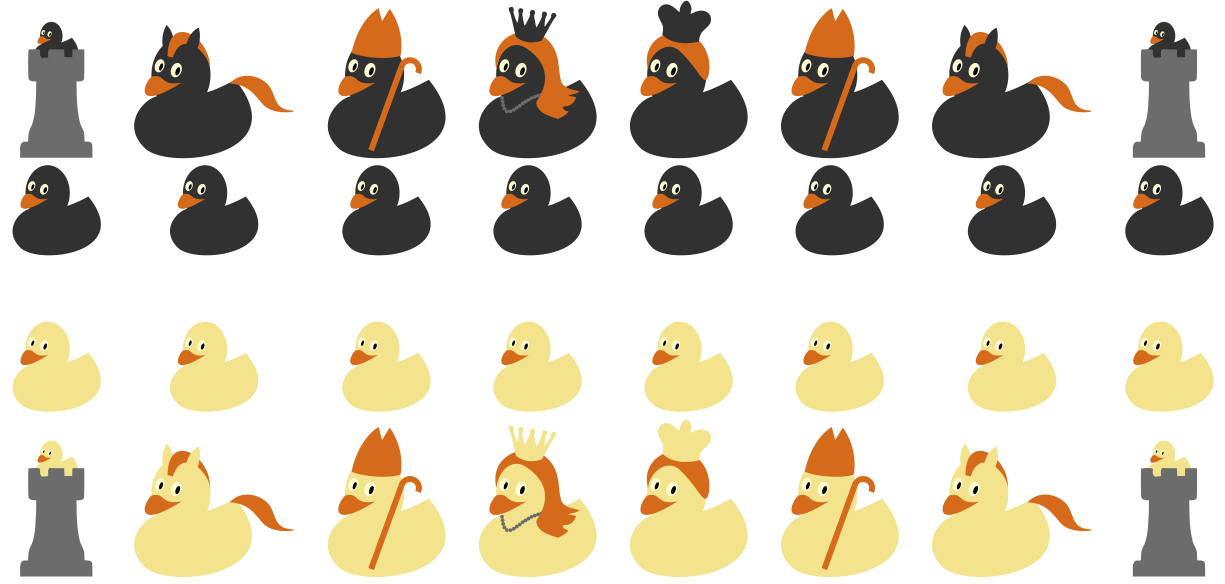
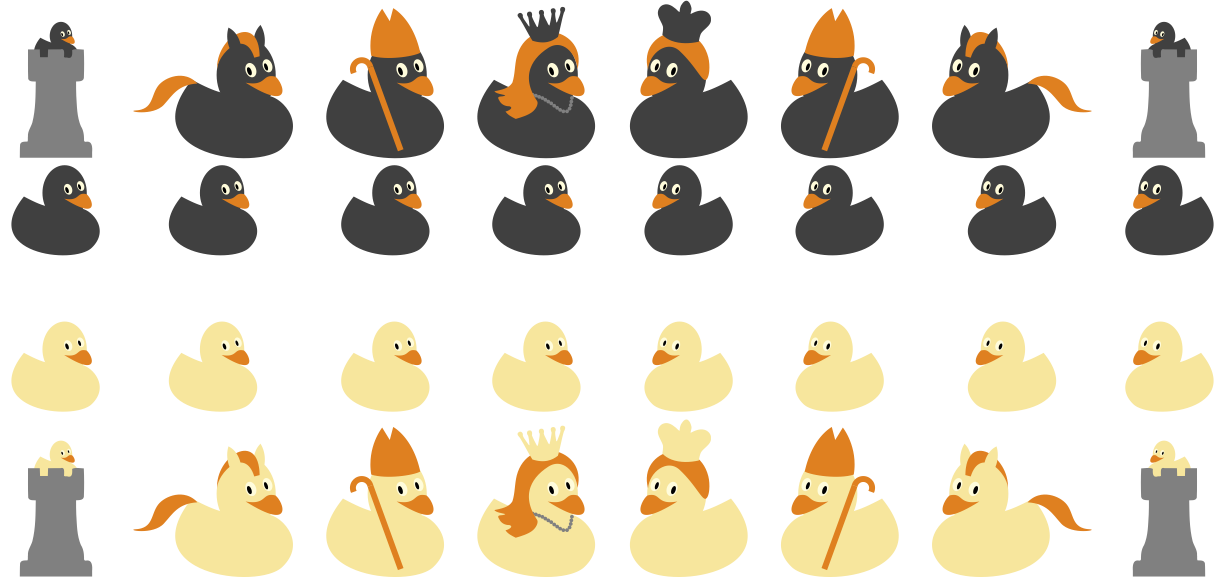
update direction of chessducks

diff --git a/duckpond/Chess.tex b/duckpond/Chess.tex
@@ -12,9 +12,9 @@
 %\cutlinestrue
 
 % Bauer %%%%%%%%%%%%%%%%%%%%%%%%%%%%%%%%%%%%%%%%%%%%%%%%%%%%%%%%%%%%%%
-\newcommand{\bauer}[1]{%
-	\begin{tikzpicture}[scale=0.75]
-		\duck[body=#1,bill=accent]
+\newcommand{\bauer}[2][]{%
+	\begin{tikzpicture}[#1,scale=0.75]
+		\duck[body=#2,bill=accent]
 		\ifcutlines
 			\draw[cutline] (1.,0.1) -- (1.,0.5);
 		\fi
@@ -22,10 +22,10 @@
 }
 
 % Turm %%%%%%%%%%%%%%%%%%%%%%%%%%%%%%%%%%%%%%%%%%%%%%%%%%%%%%%%%%%%%%%
-\newcommand{\turm}[1]{%
-	\begin{tikzpicture}
+\newcommand{\turm}[2][]{%
+	\begin{tikzpicture}[#1]
 		\begin{scope}[scale=0.38]
-			\duck[body=#1,bill=accent]
+			\duck[body=#2,bill=accent]
 		\end{scope}
 		\path[fill=gray,yshift=-45,xshift=-8] (0.0959,0.1866) .. controls (0.0908,0.2574) and (0.0900,0.3748) .. (0.1928,0.3609) .. controls (0.2295,0.3527) and (0.2359,0.3750) .. (0.2326,0.4070) .. controls (0.2337,0.4816) and (0.2438,0.5571) .. (0.2849,0.6214) .. controls (0.3553,0.7835) and (0.3522,0.9650) .. (0.3641,1.1382) .. controls (0.3678,1.2187) and (0.3676,1.2993) .. (0.3675,1.3799) .. controls (0.3183,1.3832) and (0.2443,1.3768) .. (0.2356,1.4412) .. controls (0.2297,1.6004) and (0.2294,1.7604) .. (0.2367,1.9196) .. controls (0.2988,1.9217) and (0.3843,1.9393) .. (0.4339,1.9106) .. controls (0.4300,1.8436) and (0.4255,1.7539) .. (0.5208,1.7857) .. controls (0.5477,1.7857) and (0.5820,1.7785) .. (0.5698,1.8176) .. controls (0.5717,1.8659) and (0.5553,1.9453) .. (0.6308,1.9238) .. controls (0.7009,1.9243) and (0.7710,1.9230) .. (0.8411,1.9226) .. controls (0.8425,1.8787) and (0.8439,1.8348) .. (0.8453,1.7909) .. controls (0.8892,1.7909) and (0.9331,1.7909) .. (0.9770,1.7909) .. controls (0.9784,1.8348) and (0.9798,1.8787) .. (0.9812,1.9226) .. controls (1.0478,1.9226) and (1.1143,1.9226) .. (1.1809,1.9226) .. controls (1.1794,1.7563) and (1.1845,1.5897) .. (1.1771,1.4236) .. controls (1.1574,1.3706) and (1.0943,1.3835) .. (1.0492,1.3790) .. controls (1.0532,1.1475) and (1.0506,0.9124) .. (1.1071,0.6864) .. controls (1.1310,0.6073) and (1.1880,0.5375) .. (1.1819,0.4508) .. controls (1.1864,0.4236) and (1.1780,0.3839) .. (1.1895,0.3637) .. controls (1.2346,0.3602) and (1.3001,0.3702) .. (1.3145,0.3141) .. controls (1.3197,0.2396) and (1.3177,0.1647) .. (1.3193,0.0900) .. controls (0.9114,0.0900) and (0.5036,0.0900) .. (0.0957,0.0900) .. controls (0.0958,0.1222) and (0.0959,0.1544) .. (0.0959,0.1866) -- cycle;
 		\ifcutlines
@@ -35,19 +35,19 @@
 }
 
 % Springer %%%%%%%%%%%%%%%%%%%%%%%%%%%%%%%%%%%%%%%%%%%%%%%%%%%%%%%%%%%
-\newcommand{\springer}[1]{%
-	\begin{tikzpicture}
+\newcommand{\springer}[2][]{%
+	\begin{tikzpicture}[#1]
 		\begin{pgfinterruptboundingbox}
 			\begin{scope}[yshift=-6]
 				\clip[rotate=-5] (0.68,2.38) ellipse (0.3 and 0.4);
-				\fill[#1,rotate=-5](0.28,2.26)ellipse (0.3 and 0.4);
+				\fill[#2,rotate=-5](0.28,2.26)ellipse (0.3 and 0.4);
 			\end{scope}
 		\end{pgfinterruptboundingbox}
-		\duck[body=#1,bill=accent,horsetail,mohican=accent]
+		\duck[body=#2,bill=accent,horsetail,mohican=accent]
 		\begin{pgfinterruptboundingbox}
 			\begin{scope}[yshift=-5,xshift=1]
 				\clip[rotate=-5] (0.68,2.38) ellipse (0.3 and 0.4);
-				\fill[#1,rotate=-5](1.06,2.2) ellipse (0.3 and 0.4);
+				\fill[#2,rotate=-5](1.06,2.2) ellipse (0.3 and 0.4);
 			\end{scope}
 		\end{pgfinterruptboundingbox}
 		\ifcutlines
@@ -57,9 +57,9 @@
 }
 
 % Laeufer %%%%%%%%%%%%%%%%%%%%%%%%%%%%%%%%%%%%%%%%%%%%%%%%%%%%%%%%%%%%
-\newcommand{\laeufer}[1]{%
-	\begin{tikzpicture}
-		\duck[body=#1,bill=accent,crozier=accent]
+\newcommand{\laeufer}[2][]{%
+	\begin{tikzpicture}[#1]
+		\duck[body=#2,bill=accent,crozier=accent]
 		% mita
 		\path[fill=accent] (0.5101,1.8761) .. controls (0.6355,2.4588) and (0.9681,2.6303) .. (0.9681,2.6303) -- (1.0260,2.4101) -- (1.1548,2.6202) .. controls (1.1548,2.6202) and (1.4167,2.2951) .. (1.3398,1.8247) .. controls (1.0829,1.7440) and (0.6286,1.8104) .. (0.5101,1.8761) -- cycle;
 		\ifcutlines
@@ -69,11 +69,11 @@
 }
 
 % Dame %%%%%%%%%%%%%%%%%%%%%%%%%%%%%%%%%%%%%%%%%%%%%%%%%%%%%%%%%%%%%%%
-\newcommand{\dame}[1]{%
-	\begin{tikzpicture}
-		\duck[body=#1,necklace=gray,longhair=accent,bill=accent]
+\newcommand{\dame}[2][]{%
+	\begin{tikzpicture}[#1]
+		\duck[body=#2,necklace=gray,longhair=accent,bill=accent]
 		\begin{scope}[yshift=2]
-			\fill[#1] \duckpathqueencrown;
+			\fill[#2] \duckpathqueencrown;
 		\end{scope}
 		\ifcutlines
 			\draw[cutline] (1.,0.1) -- (1.,0.5);
@@ -82,11 +82,11 @@
 }
 
 % Koenig %%%%%%%%%%%%%%%%%%%%%%%%%%%%%%%%%%%%%%%%%%%%%%%%%%%%%%%%%%%%%
-\newcommand{\koenig}[1]{%
-	\begin{tikzpicture}
-		\duck[body=#1,shorthair=accent,bill=accent]
+\newcommand{\koenig}[2][]{%
+	\begin{tikzpicture}[#1]
+		\duck[body=#2,shorthair=accent,bill=accent]
 		\begin{scope}[yshift=4]
-			\fill[#1] \duckpathkingcrown;
+			\fill[#2] \duckpathkingcrown;
 		\end{scope}
 		\ifcutlines
 			\draw[cutline] (1.,0.1) -- (1.,0.5);
@@ -115,10 +115,10 @@
 \begin{document}
 
 \begin{tabular}{cccccccc}
-	\turm{dark} & \springer{dark} & \laeufer{dark} & \dame{dark} & \koenig{dark} & \laeufer{dark} & \springer{dark} & \turm{dark}\\
-	\bauer{dark} & \bauer{dark} & \bauer{dark} & \bauer{dark} & \bauer{dark} & \bauer{dark} & \bauer{dark} & \bauer{dark}\\[1cm]
-	\bauer{light} & \bauer{light} & \bauer{light} & \bauer{light} & \bauer{light} & \bauer{light} & \bauer{light} & \bauer{light}\\
-	\turm{light} & \springer{light} & \laeufer{light} & \dame{light} & \koenig{light} & \laeufer{light} & \springer{light} & \turm{light}\\
+	\turm[xscale=-1]{dark} & \springer[xscale=-1]{dark} & \laeufer[xscale=-1]{dark} & \dame[xscale=-1]{dark} & \koenig{dark} & \laeufer{dark} & \springer{dark} & \turm{dark}\\
+	\bauer[xscale=-1]{dark} & \bauer[xscale=-1]{dark} & \bauer[xscale=-1]{dark} & \bauer[xscale=-1]{dark} & \bauer{dark} & \bauer{dark} & \bauer{dark} & \bauer{dark}\\[1cm]
+	\bauer[xscale=-1]{light} & \bauer[xscale=-1]{light} & \bauer[xscale=-1]{light} & \bauer[xscale=-1]{light} & \bauer{light} & \bauer{light} & \bauer{light} & \bauer{light}\\
+	\turm[xscale=-1]{light} & \springer[xscale=-1]{light} & \laeufer[xscale=-1]{light} & \dame[xscale=-1]{light} & \koenig{light} & \laeufer{light} & \springer{light} & \turm{light}\\
 \ifcutlines	
 	\bigstand{gray} & \bigstand{dark} & \bigstand{dark} & \bigstand{dark} & \bigstand{dark} & \bigstand{dark} & \bigstand{dark} & \bigstand{gray}\\
 	\smallstand{dark} & \smallstand{dark} & \smallstand{dark} & \smallstand{dark} & \smallstand{dark} & \smallstand{dark} & \smallstand{dark} & \smallstand{dark}\\
